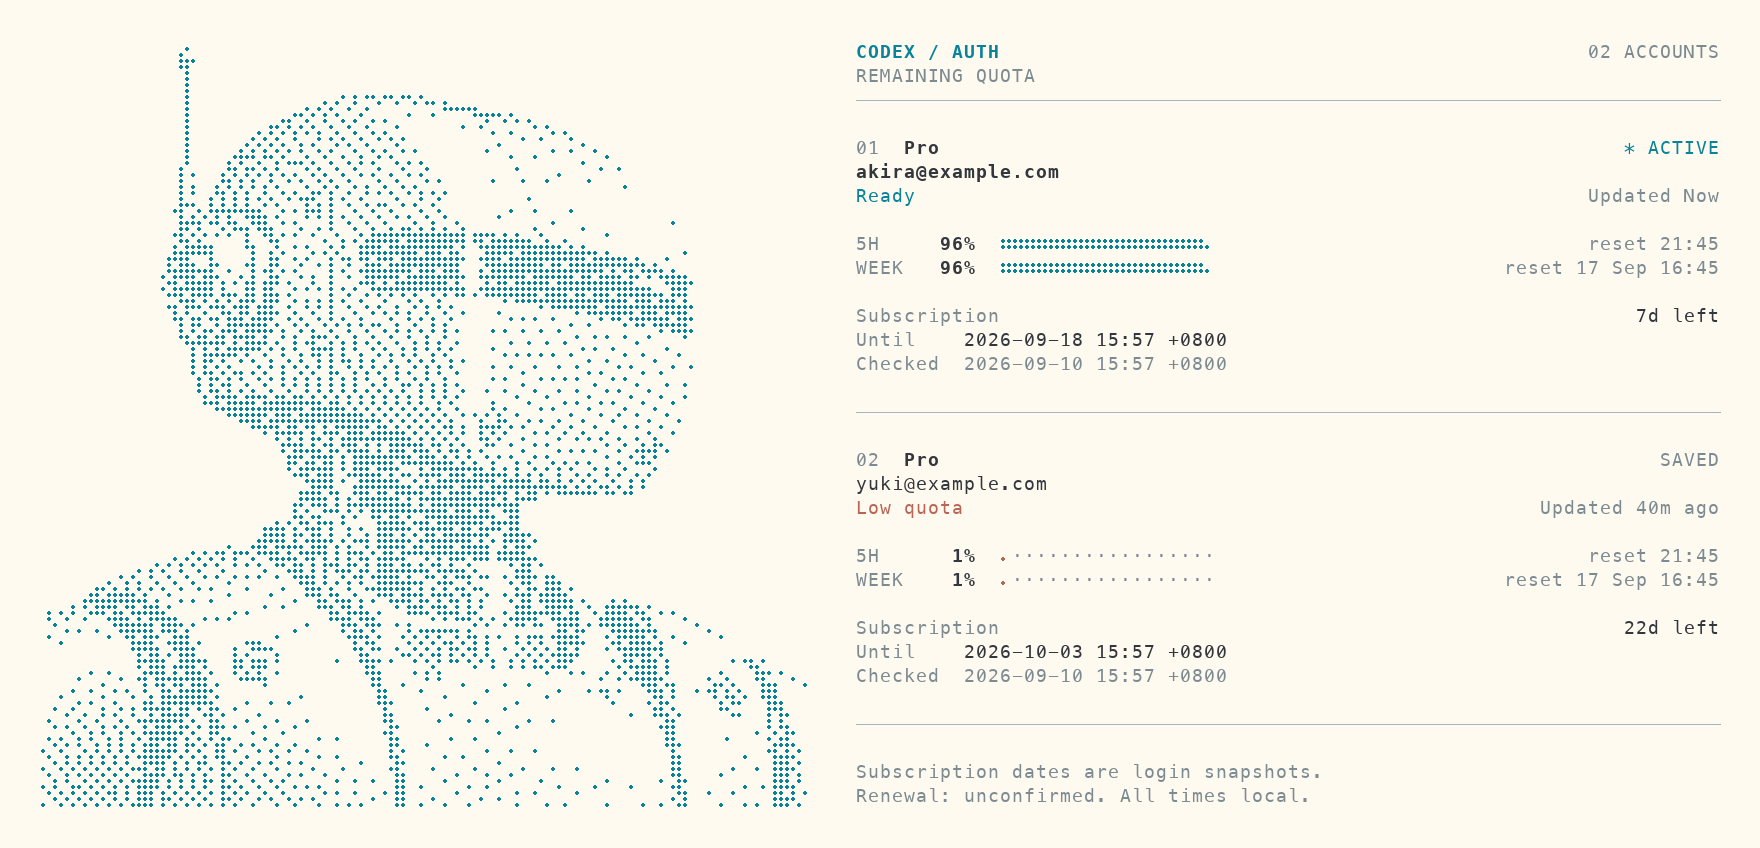
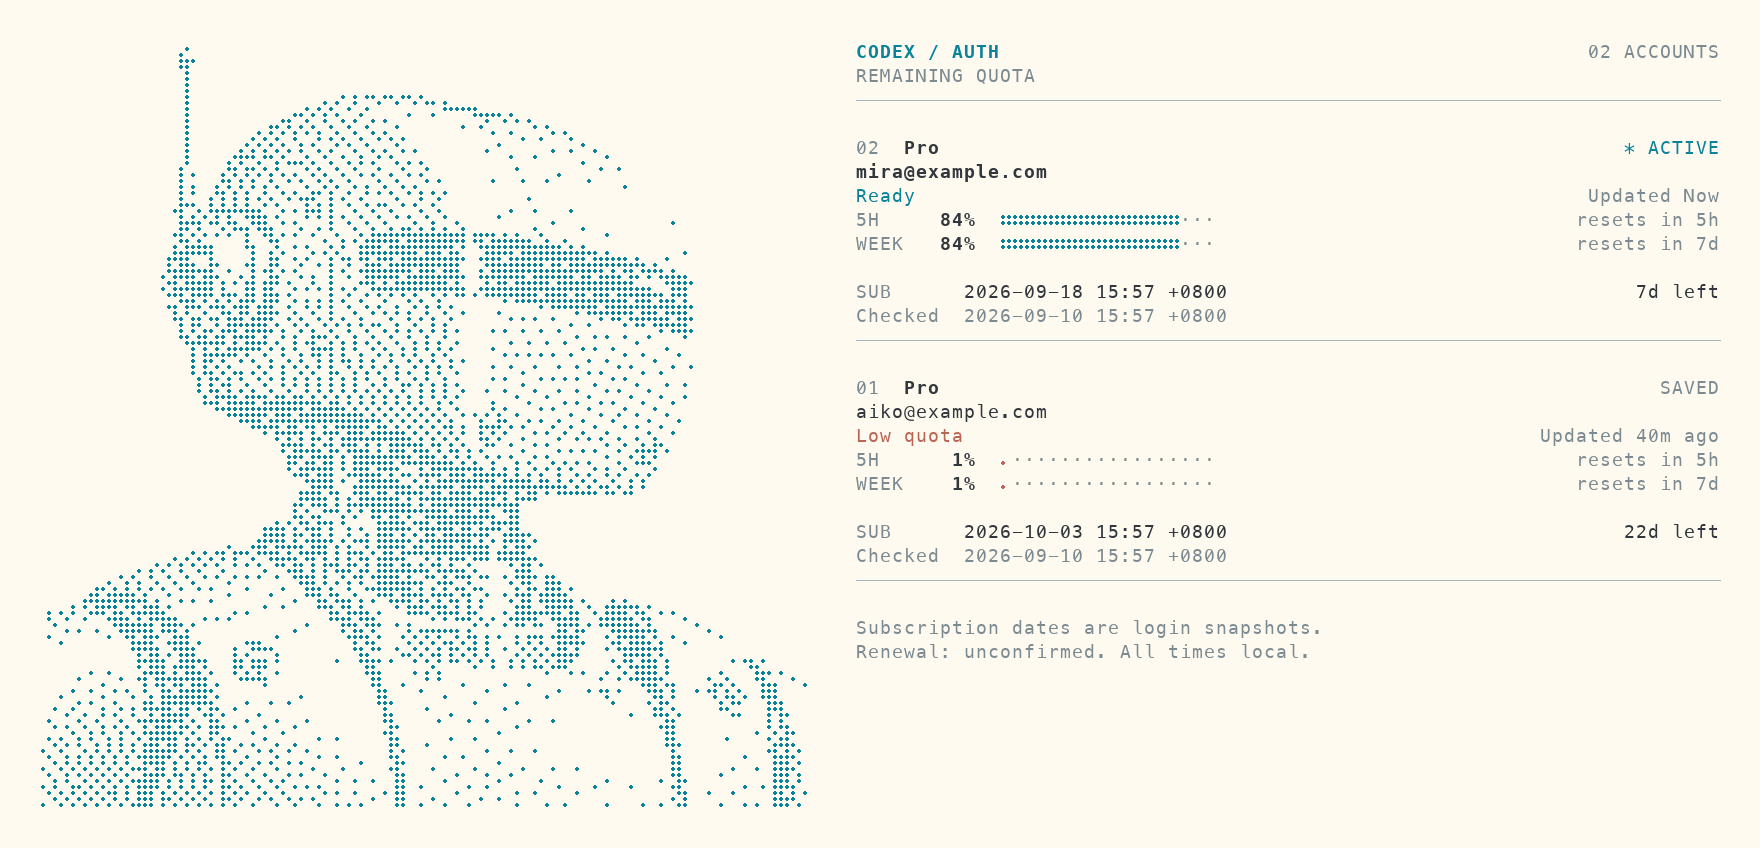
style: prioritize active account and compact quota details

diff --git a/README.md b/README.md
@@ -19,9 +19,15 @@ The CLI inherits your terminal's background; Braille dot shapes depend on its fo
 - Thin rules, aligned metadata, percentage-first quota rows, and restrained teal
   accents keep the information readable beside the artwork. Warning colors apply
   to status and filled dots; reset times and secondary details stay muted.
-- `* ACTIVE` identifies the current account. Account numbers, workspace labels,
-  quota reset times, and subscription dates stay visible. The status caption
-  changes with remaining quota or refresh errors; the portrait is static.
+- The `* ACTIVE` account appears first, retaining its original number so that
+  the numbers still match the switch/remove selectors. Other accounts retain
+  their relative order, and workspace labels remain visible.
+- Quota reset labels show a countdown such as `resets in 2d 4h` or
+  `resets in 35m`, calculated when the command runs. Past reset times show
+  `window reset`; unavailable times remain `reset unknown`.
+- Compact `SUB` and `Checked` rows retain the full local subscription snapshot
+  timestamps and UTC offsets. The status caption changes with remaining quota
+  or refresh errors; the portrait is static.
 - Percentages and filled dots show **remaining** quota. Unknown or failed usage
   uses question marks instead of looking like zero quota. The fine dotted bars
   have quarter-cell precision and keep a visible mark for nonzero quota.
@@ -33,7 +39,7 @@ The CLI inherits your terminal's background; Braille dot shapes depend on its fo
   only for asset generation). The CLI needs no Python, image protocol, downloads,
   or additional network requests to display the artwork.
 
-`Subscription` shows remaining full days, `Until` shows the last-known
+`SUB` shows remaining full days alongside the last-known
 **valid-until** time, and `Checked` shows the subscription's **last-checked** time. Dates use the local
 timezone and include the UTC offset. This also works with `list --skip-api`.
 
